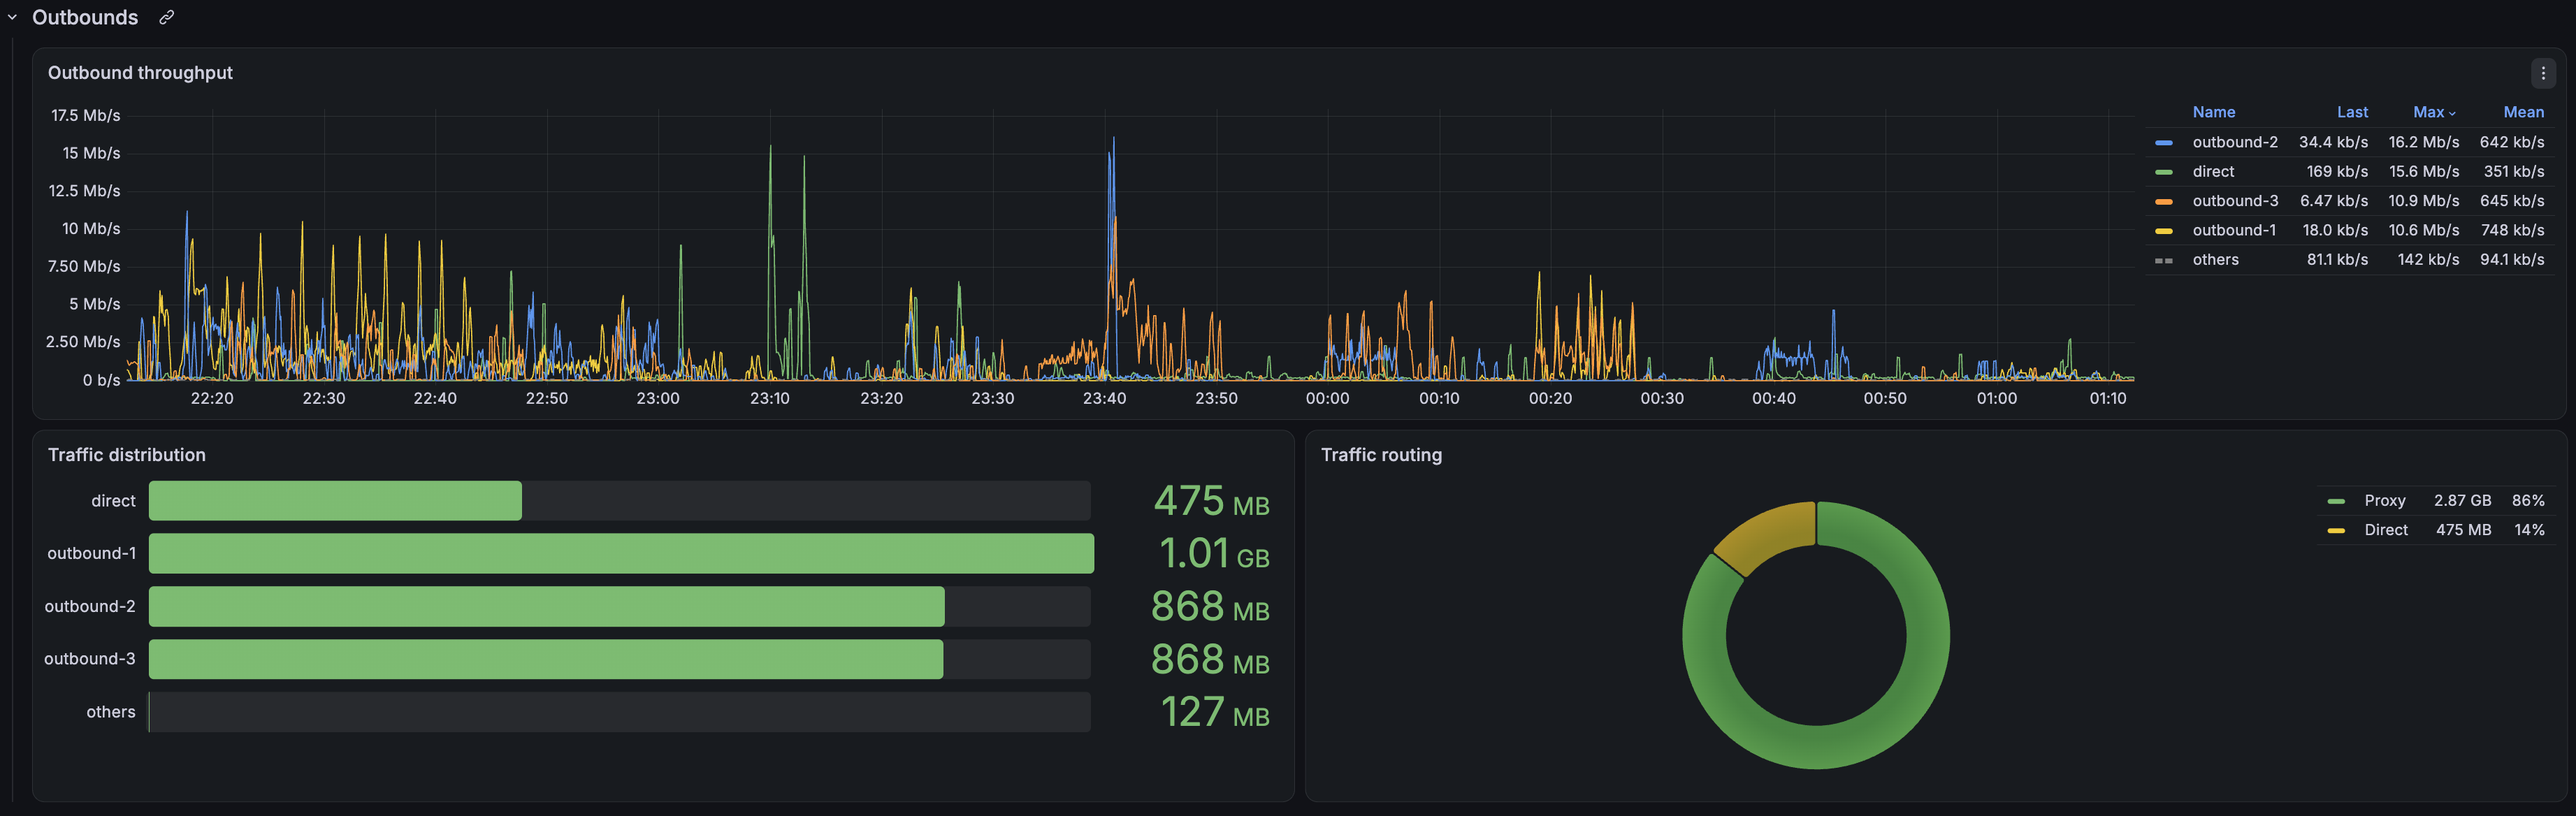
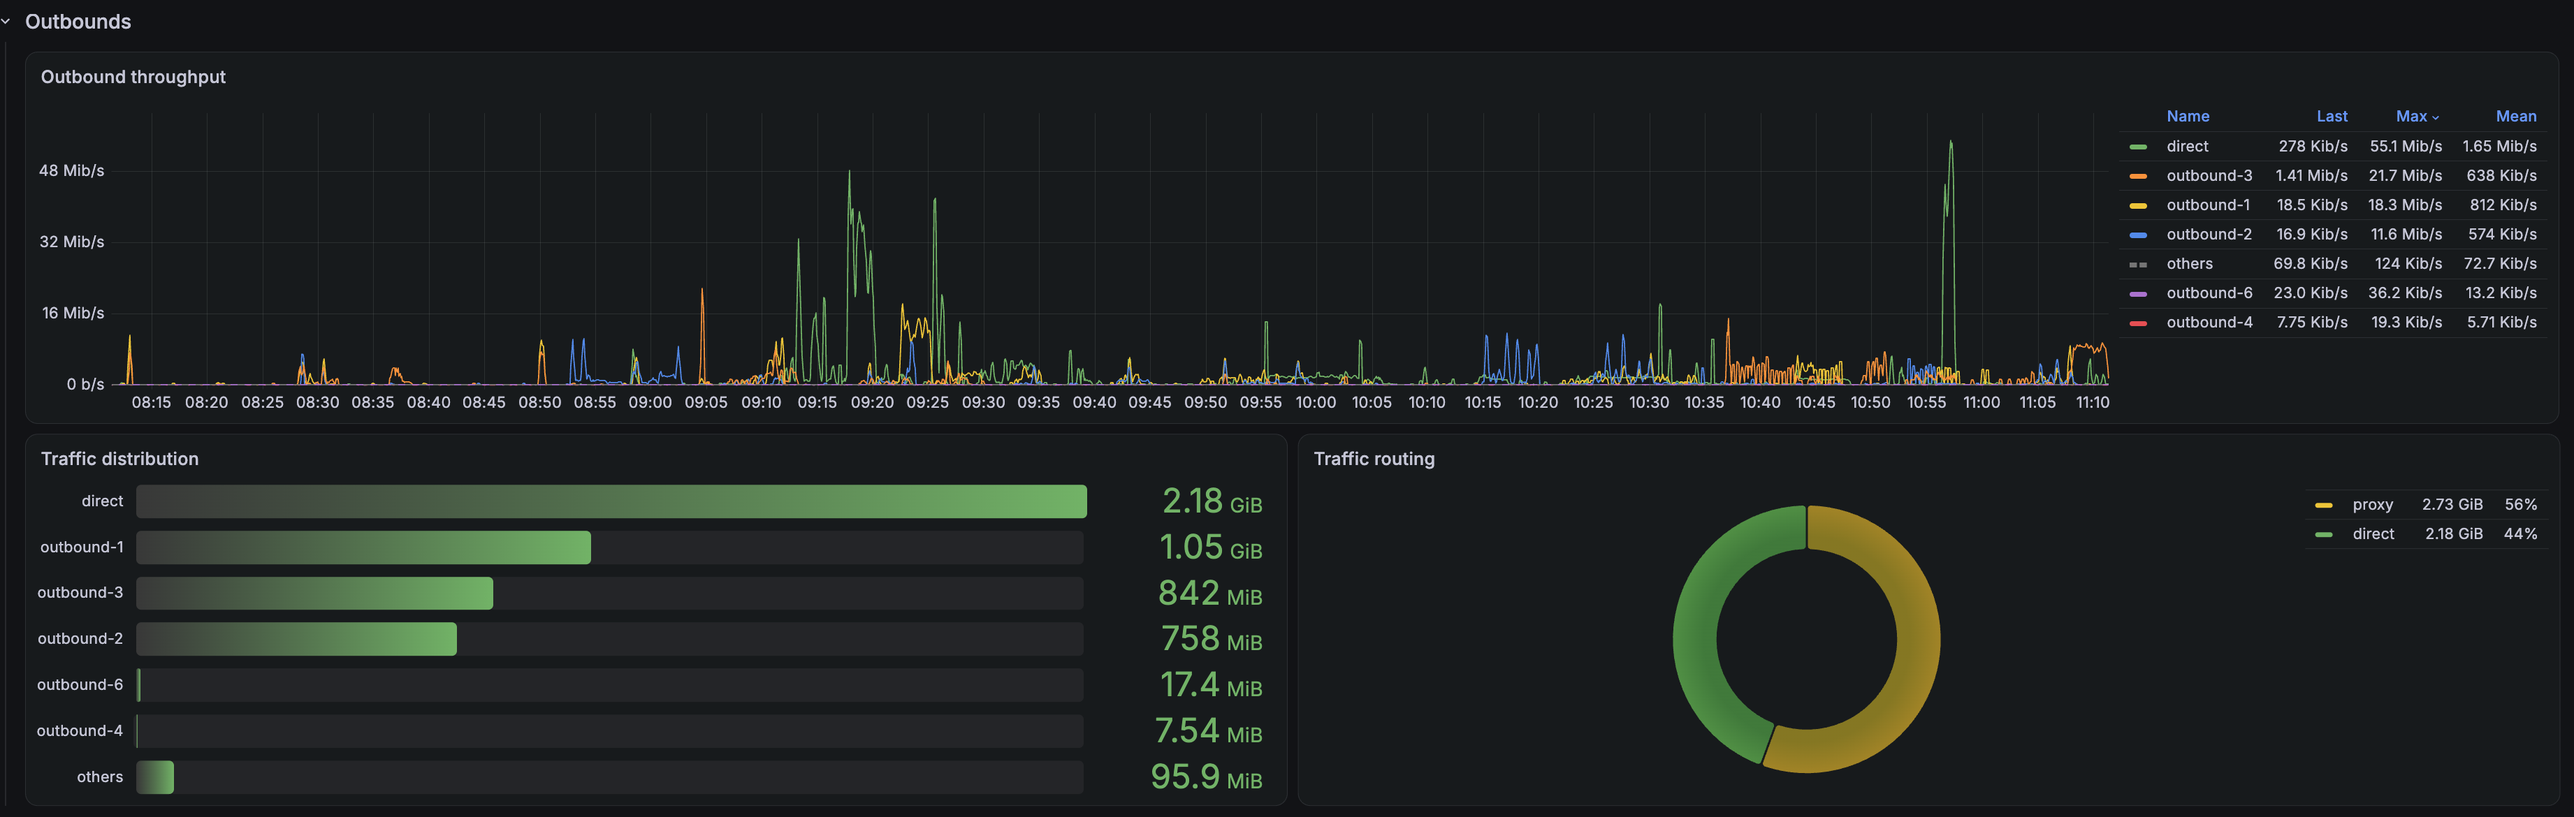
chore(release): prepare v1.4.4 release with updated screenshots

diff --git a/docs/releases/v1.4.4.md b/docs/releases/v1.4.4.md
@@ -1,0 +1,23 @@
+# v1.4.4
+
+## Unified outbound health & selection timeline, deep-link navigation, and updated screenshots
+
+3x-ui-exporter **v1.4.4** is a patch release combining outbound health and balancer selection into a single unified State Timeline panel, introducing direct section deep-linking from Overview cards, updating all dashboard screenshots (including a new Inbounds section screenshot), and adding a demo screenshot anonymization tool.
+
+---
+
+### Features & Improvements
+
+#### Grafana Dashboards (`classic` & `v2`)
+- **Unified Outbound Health & Selection Timeline:** Combined separate health and balancer selection panels into a single unified State Timeline panel with dual-state semantic mapping:
+  - **Active:** Currently selected outbounds routing traffic (bold saturated colors: green = UP, yellow = DEGRADED, red = DOWN).
+  - **Standby:** Candidate outbounds in balancer reserve (soft muted colors: light-green = Ready, light-yellow = Degraded, light-red = Down).
+  - Clear visual indicators for active overrides and fallback activation.
+- **Section Deep-Linking (`drow`):** Replaced panel-isolating links with section deep-links (`drow=...`) across Overview cards (`drow=Exporter-stats`, `drow=Clients`, `drow=Connected-nodes`, `drow=Inbounds`, `drow=Outbounds`, `drow=Balancers-%2526-Observatory`), allowing one-click navigation directly to the corresponding expanded dashboard row.
+- **Direct Outbound Color Pinning:** Fixed `direct` outbound series color to green in outbound throughput charts for visual consistency across scrapes.
+- **Complete Dashboard Parity:** Fully synchronized panel configurations and layouts 1:1 across `grafana-3x-ui.classic.json` and `grafana-3x-ui.v2.json`.
+
+#### Documentation & Demo Assets
+- **Updated Dashboard Screenshots:** Refreshed all section screenshots in `docs/images/` to reflect the latest UI changes, including a new dedicated `inbounds.png` section screenshot.
+- **Documentation Polish:** Added Inbounds section preview to `README.md` and corrected Table of Contents anchor links.
+- **Dashboard Anonymizer Script:** Added `scripts/anonymize-dashboard.py` to sanitize private server details, tokens, and IPs before capturing demo assets.

diff --git a/README.md b/README.md
@@ -20,10 +20,10 @@ Provides real-time visibility into traffic throughput, multi-node cluster health
 - [Quick Start](#quick-start)
   - [Docker Compose (Recommended)](#docker-compose-recommended)
   - [Prometheus Configuration](#prometheus-configuration)
-  - [Systemd Service Installation](#systemd-service-installation-standalone-host--vm)
+  - [Systemd Service Installation](#systemd-service-installation-standalone-host-vm)
   - [Manual Binary Execution](#manual-binary-execution)
 - [Configuration Reference](#configuration-reference)
-- [Security & Remote Access: TLS and Authentication](#security--remote-access-tls-and-authentication)
+- [Security & Remote Access: TLS and Authentication](#security-remote-access-tls-and-authentication)
 - [Metrics Reference](#metrics-reference)
   - [Exporter Diagnostics](#exporter-diagnostics)
   - [Panel, Node Cluster, and Inbound Status](#panel-node-cluster-and-inbound-status)
@@ -231,7 +231,7 @@ To switch to a specific release version, downgrade, or install the rolling bleed
 
 ```sh
 # Pin specific version:
-curl -sSL https://raw.githubusercontent.com/nike38rus/3x-ui-exporter/main/install.sh | sudo bash -s update -v v1.4.3
+curl -sSL https://raw.githubusercontent.com/nike38rus/3x-ui-exporter/main/install.sh | sudo bash -s update -v v1.4.4
 
 # Install or update to edge build (latest commit on main):
 curl -sSL https://raw.githubusercontent.com/nike38rus/3x-ui-exporter/main/install.sh | sudo bash -s update -v edge
@@ -591,6 +591,9 @@ The default view surfaces Xray state, versions, target health, balancer modes, o
 #### Clients
 ![Clients](docs/images/clients.png)
 
+#### Inbounds
+![Inbounds](docs/images/inbounds.png)
+
 #### Outbounds
 ![Outbounds](docs/images/outbounds.png)
 
@@ -722,7 +725,7 @@ make linux
 make licenses
 
 # Package release archives with checksums
-make release VERSION=v1.4.3
+make release VERSION=v1.4.4
 ```
 
 ---
